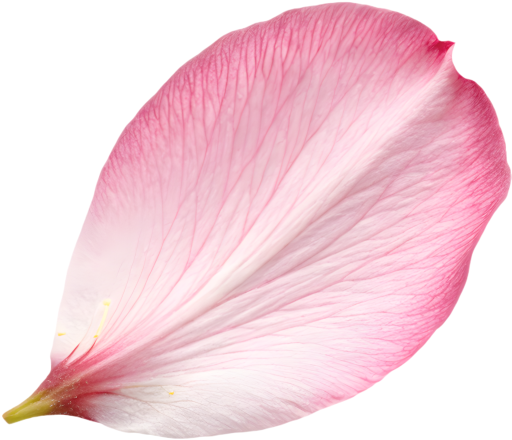
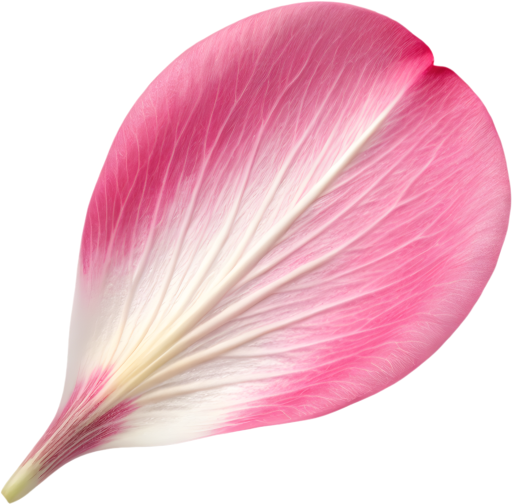
better petal texture, credits

diff --git a/src/info.js b/src/info.js
@@ -38,7 +38,9 @@ export class Info {
                 "[Qwantani Noon](https://polyhaven.com/a/qwantani_noon) HDRi background by [Greg Zaal](https://gregzaal.com/) and [Jarod Guest](https://polyhaven.com/all?a=Jarod%20Guest).\n\n" +
                 "[Piazza Martin Lutero](https://polyhaven.com/a/piazza_martin_lutero) HDRi background by [Greg Zaal](https://gregzaal.com/) and [Rico Cilliers](https://www.artstation.com/rico_b3d).\n\n" +
                 "[Ninomaru Teien](https://polyhaven.com/a/ninomaru_teien) HDRi background by [Greg Zaal](https://gregzaal.com/).\n\n" +
-                "[Fabric texture](https://3dtextures.me/2024/06/21/fabric-lace-038/) by [3dtextures.me](https://3dtextures.me).\n\n",
+                "[Fabric texture](https://3dtextures.me/2024/06/21/fabric-lace-038/) by [3dtextures.me](https://3dtextures.me).\n\n" +
+                "[Cherry petal texture](https://www.vecteezy.com/png/55531046-beautiful-cherry-blossom-petal-clipart-with-soft-elegance) by [Pram Samnak](https://www.vecteezy.com/members/pram106) on [Vecteezy](https://www.vecteezy.com/).\n\n" +
+                "[Maple leaf texture](https://sketchfab.com/3d-models/low-poly-leaves-25c6b8f79b204be388ed4ea00f74f9a1) by [kaiinness](https://sketchfab.com/kaiinness).\n\n",
             markdown: true,
         });
 

diff --git a/src/physics/verletPhysics.js b/src/physics/verletPhysics.js
@@ -222,10 +222,11 @@ export class VerletPhysics {
             this.vertexBuffer.element(instanceIndex).get("position").addAssign(force);
         })().compute(this.vertexCount);
 
+
         this.kernels.smoothPositions = Fn(()=>{
             const vertex = this.vertexBuffer.element(instanceIndex);
-            const position = vertex.get("position").toVar();
-            const smoothedPosition = vertex.get("smoothedPosition").toVar();
+            const position = vertex.get("position");
+            const smoothedPosition = vertex.get("smoothedPosition");
 
             const newPos = mix(smoothedPosition, position, 0.25);
             vertex.get("smoothedPosition").assign(newPos);
